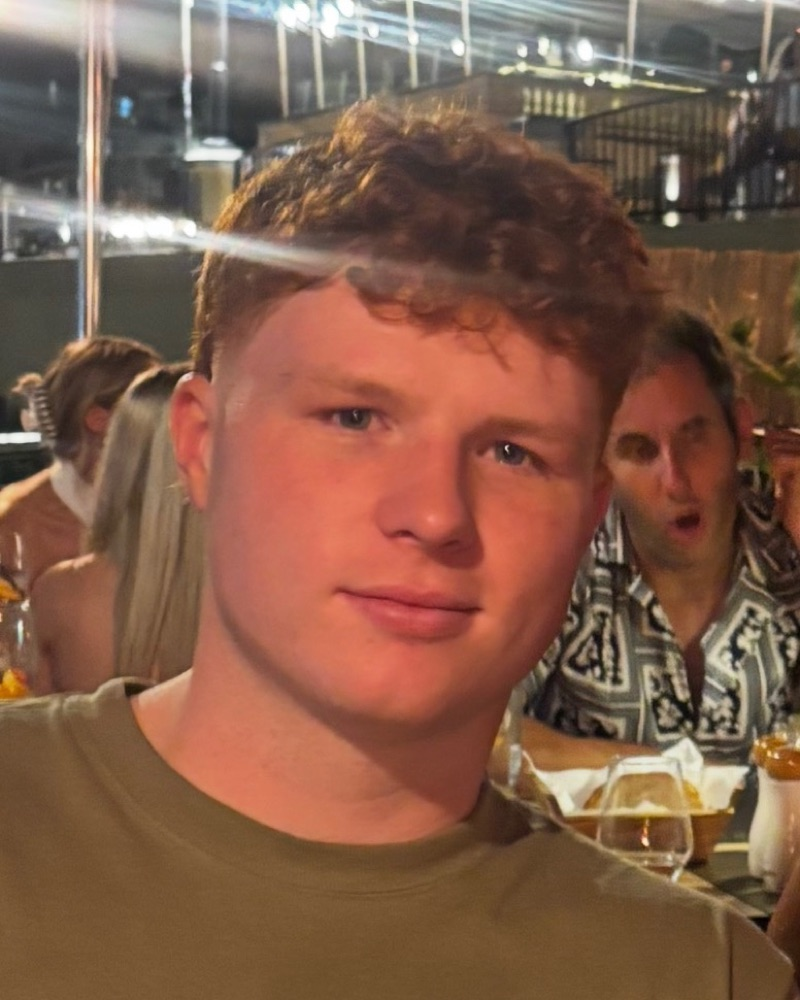
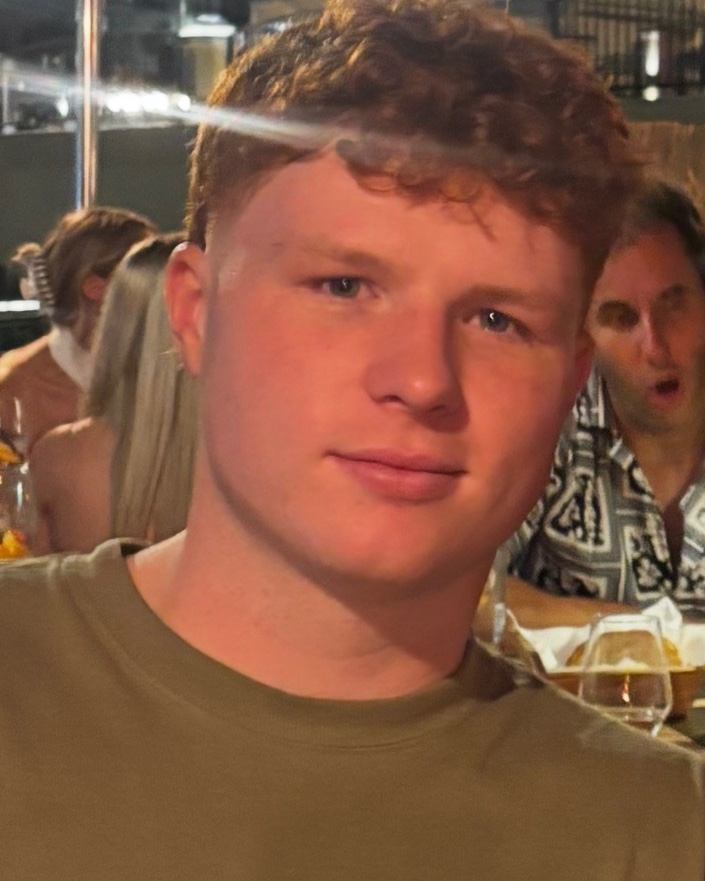
Recrop every portrait so the face is centred in the frame
Located each face (skin-region detection, checked against a measured grid
overlay) and recropped from the originals so all four sit at exactly 50%
across and 40% down. Jimmy and Zac were noticeably off centre before.

Crops are taken at native resolution rather than upscaled, so the files are
smaller and no sharper or softer than the sources allow. Avatars get
object-position 50% 0% so the circular crop lands on the face too.

diff --git a/index.html b/index.html
@@ -143,7 +143,8 @@ a:focus-visible,button:focus-visible,[tabindex]:focus-visible{
 .avatar .mono{position:absolute;inset:0;display:flex;align-items:center;justify-content:center;
   font-family:var(--serif);font-weight:600;font-size:calc(var(--s,28px) * .4);color:var(--accent);
   letter-spacing:.01em}
-.avatar img{position:absolute;inset:0;width:100%;height:100%;object-fit:cover}
+.avatar img{position:absolute;inset:0;width:100%;height:100%;object-fit:cover;
+  object-position:50% 0%}   /* portraits put the face at 40% height: this centres it in the circle */
 .avatars{display:inline-flex;align-items:center}
 .avatars .avatar+.avatar{margin-left:calc(var(--s,28px) * -.32);box-shadow:0 0 0 2px var(--paper)}
 

diff --git a/PUBLISHING.md b/PUBLISHING.md
@@ -93,7 +93,9 @@ Drop the files in `assets/founders/` with these exact names:
 - `assets/founders/theo.jpg`
 - `assets/founders/christian.jpg`
 
-Recommended: **800 x 1000px** (4:5 portrait), JPG or WebP, **under 300KB**. If you use WebP, change
+Recommended: **800 x 1000px** (4:5 portrait), JPG or WebP, **under 300KB**. Crop so the face is
+centred horizontally and sits about **40% down** the frame: the small round avatars are cut from
+the top of the portrait and that is what lines the face up in them. If you use WebP, change
 the `photo` path in the `AUTHORS` config in `index.html` to match the new extension.
 
 The photos are used in three places: the profile cards on the About page, the small circular avatars
